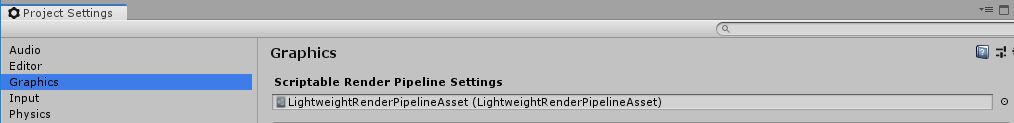
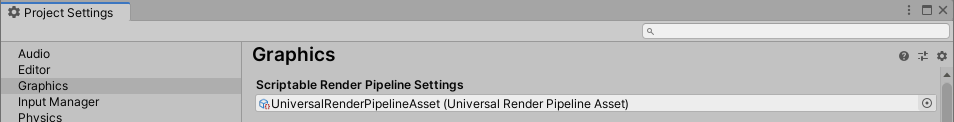
Added a number of changes to 2d docs

diff --git a/com.unity.render-pipelines.universal/Documentation~/Setup.md b/com.unity.render-pipelines.universal/Documentation~/Setup.md
@@ -6,25 +6,34 @@ Install the following Editor and package versions to work with the 2D Renderer:
 
 - __Universal Render Pipeline__ version 6.7 or higher (available via the Package Manager)
 
-## Configuring the 2D Renderer
+## 2D Renderer Setup
+![](Images/2D/New_Project_With_Template.png)
 
-![](Images/2D/image_2.png)
+1. Create a new project using the 2D template
 
-1. Create a new __Pipeline Asset__ by going to the __Assets__ menu and selecting __Create > Rendering > Universal Render Pipeline > Pipeline Asset__ and name it.
+    ![](Images/2D/image_2.png)
 
-2. Create a new __2D Renderer__ by going to __Assets > Create > Rendering > Universal Render Pipeline > 2D Renderer__. Give it a name when prompted.
+2. Create a new __Pipeline Asset__ by going to the __Assets__ menu and selecting __Create > Rendering > Universal Render Pipeline > Pipeline Asset__ and name it.
+
+3. Create a new __2D Renderer__ by going to __Assets > Create > Rendering > Universal Render Pipeline > 2D Renderer__. Give it a name when prompted.
 
    ![](Images/2D/image_3.png)
 
 4. Drag the __2D Renderer__ Asset onto the __Renderer List__, or select the circle icon to open the __Select Object__ window and then select the __2D Renderer__ Asset from the list.
 
+6. Follow __ONE__ of the following options:
+   
    ![](Images/2D/image_4.png)
 
-5. Go to __Edit > Project Settings__, and select the __Graphics__ category. Set the __Scriptable Render Pipeline Settings__ to your created __Pipeline Asset__ by dragging the Asset directly onto the box, or select the circle open to the right of the box to open the __Select Object__ window and then selecting the Asset from the list.
+   __(Option 1)__ For a single setting across all platforms, go to __Edit > Project Settings__, and select the __Graphics__ category. Set the __Scriptable Render Pipeline Settings__ to your created __Pipeline Asset__ by dragging the Asset directly onto the box, or select the circle open to the right of the box to open the __Select Object__ window and then selecting the Asset from the list.   
 
-   ![](Images/2D/image_4.png)
+    ![](Images/2D/Quality_Settings.png) 
 
-The __2D Renderer__ is now configured for your Project.
+    __(Option 2)__ For settings per quality level Go to __Edit > Project Settings__, and select the __Quality__ category. Set the __Scriptable Render Pipeline Settings__ to your created __Pipeline Asset__ by dragging the Asset directly onto the box, or select the circle open to the right of the box to open the __Select Object__ window and then selecting the Asset from the list. You will need to set an asset per quality level that will be used.  
+
+
+
+The __2D Renderer__ is now setup for your Project.
 
 __Note:__ If you have the experimental 2D Renderer enabled, some of the options related to 3D rendering in the Universal Render Pipeline Asset will not have any impact on your final app or game.
 

diff --git a/com.unity.render-pipelines.universal/Documentation~/2DRendererData_overview.md b/com.unity.render-pipelines.universal/Documentation~/2DRendererData_overview.md
@@ -1,10 +1,6 @@
 # 2D Renderer Data Asset
 
-<<<<<<< Updated upstream
-![The 2D Renderer Data Asset property settings](Images/2dRendererData_properties_updated.png)
-=======
-![The 2D Renderer Data Asset property settings](Images/2D/2dRendererData_properties_updated.png)
->>>>>>> Stashed changes
+![The 2D Renderer Data Asset property settings](Images/2D/2dRendererData_properties.png)
 
 The __2D Renderer Data__ Asset contains the settings that affect the way Light is applied to lit Sprites. You can set the way Lights emulate HDR lighting with the [HDR Emulation Scale](HDREmulationScale), or customize your own [Light Blend Styles](LightBlendStyles). 
 
@@ -15,3 +11,17 @@ This option is enabled by default. Clear this option to disable the Depth/[Stenc
 ## Post-processing Data
 
 Unity automatically assigns a default Asset to this property that contains the resources (such as Textures and Shaders) that the post-processing effects require. If you want to use your own post-processing Shaders or lookup Textures, replace the default Asset.
+
+## Default Material Type
+
+![The 2D Renderer Data Asset property settings](Images/2D/Default_Material_Type.png)
+
+When created, a sprite will be assigned the selected default material type. 
+
+__Lit__ -  Uses the Sprite-Lit-Default material. This material can be lit by 2D lights
+
+__Unlit__ - Uses the Sprite-Unlit-Default material. This material is unaffected by lighting.
+
+![The 2D Renderer Data Asset property settings](Images/2D/Default_Custom_Material.png)
+
+__Custom__ - Uses the material specified in the Default Custom Material field    

diff --git a/com.unity.render-pipelines.universal/Documentation~/TableOfContents.md b/com.unity.render-pipelines.universal/Documentation~/TableOfContents.md
@@ -64,12 +64,12 @@
   * [Lights 2D properties](2DLightProperties.md)
 
     * [Light types](LightTypes.md)
+  * [2D Shadows](2DShadows.md)
   * [Configuring the 2D Renderer Asset](2DRendererData_overview.md)
 
     * [HDR emulation scale](HDREmulationScale.md)
     * [Light Blend Styles](LightBlendStyles.md)
-
-    * [2D Shadows](2DShadows.md)
+    
   * [2D Renderer and Shader Graph](ShaderGraph.md)
   * [2D Pixel Perfect](2d-pixelperfect.md)
     * [Cinemachine Pixel Perfect extension](pixel-cinemachine.md)
